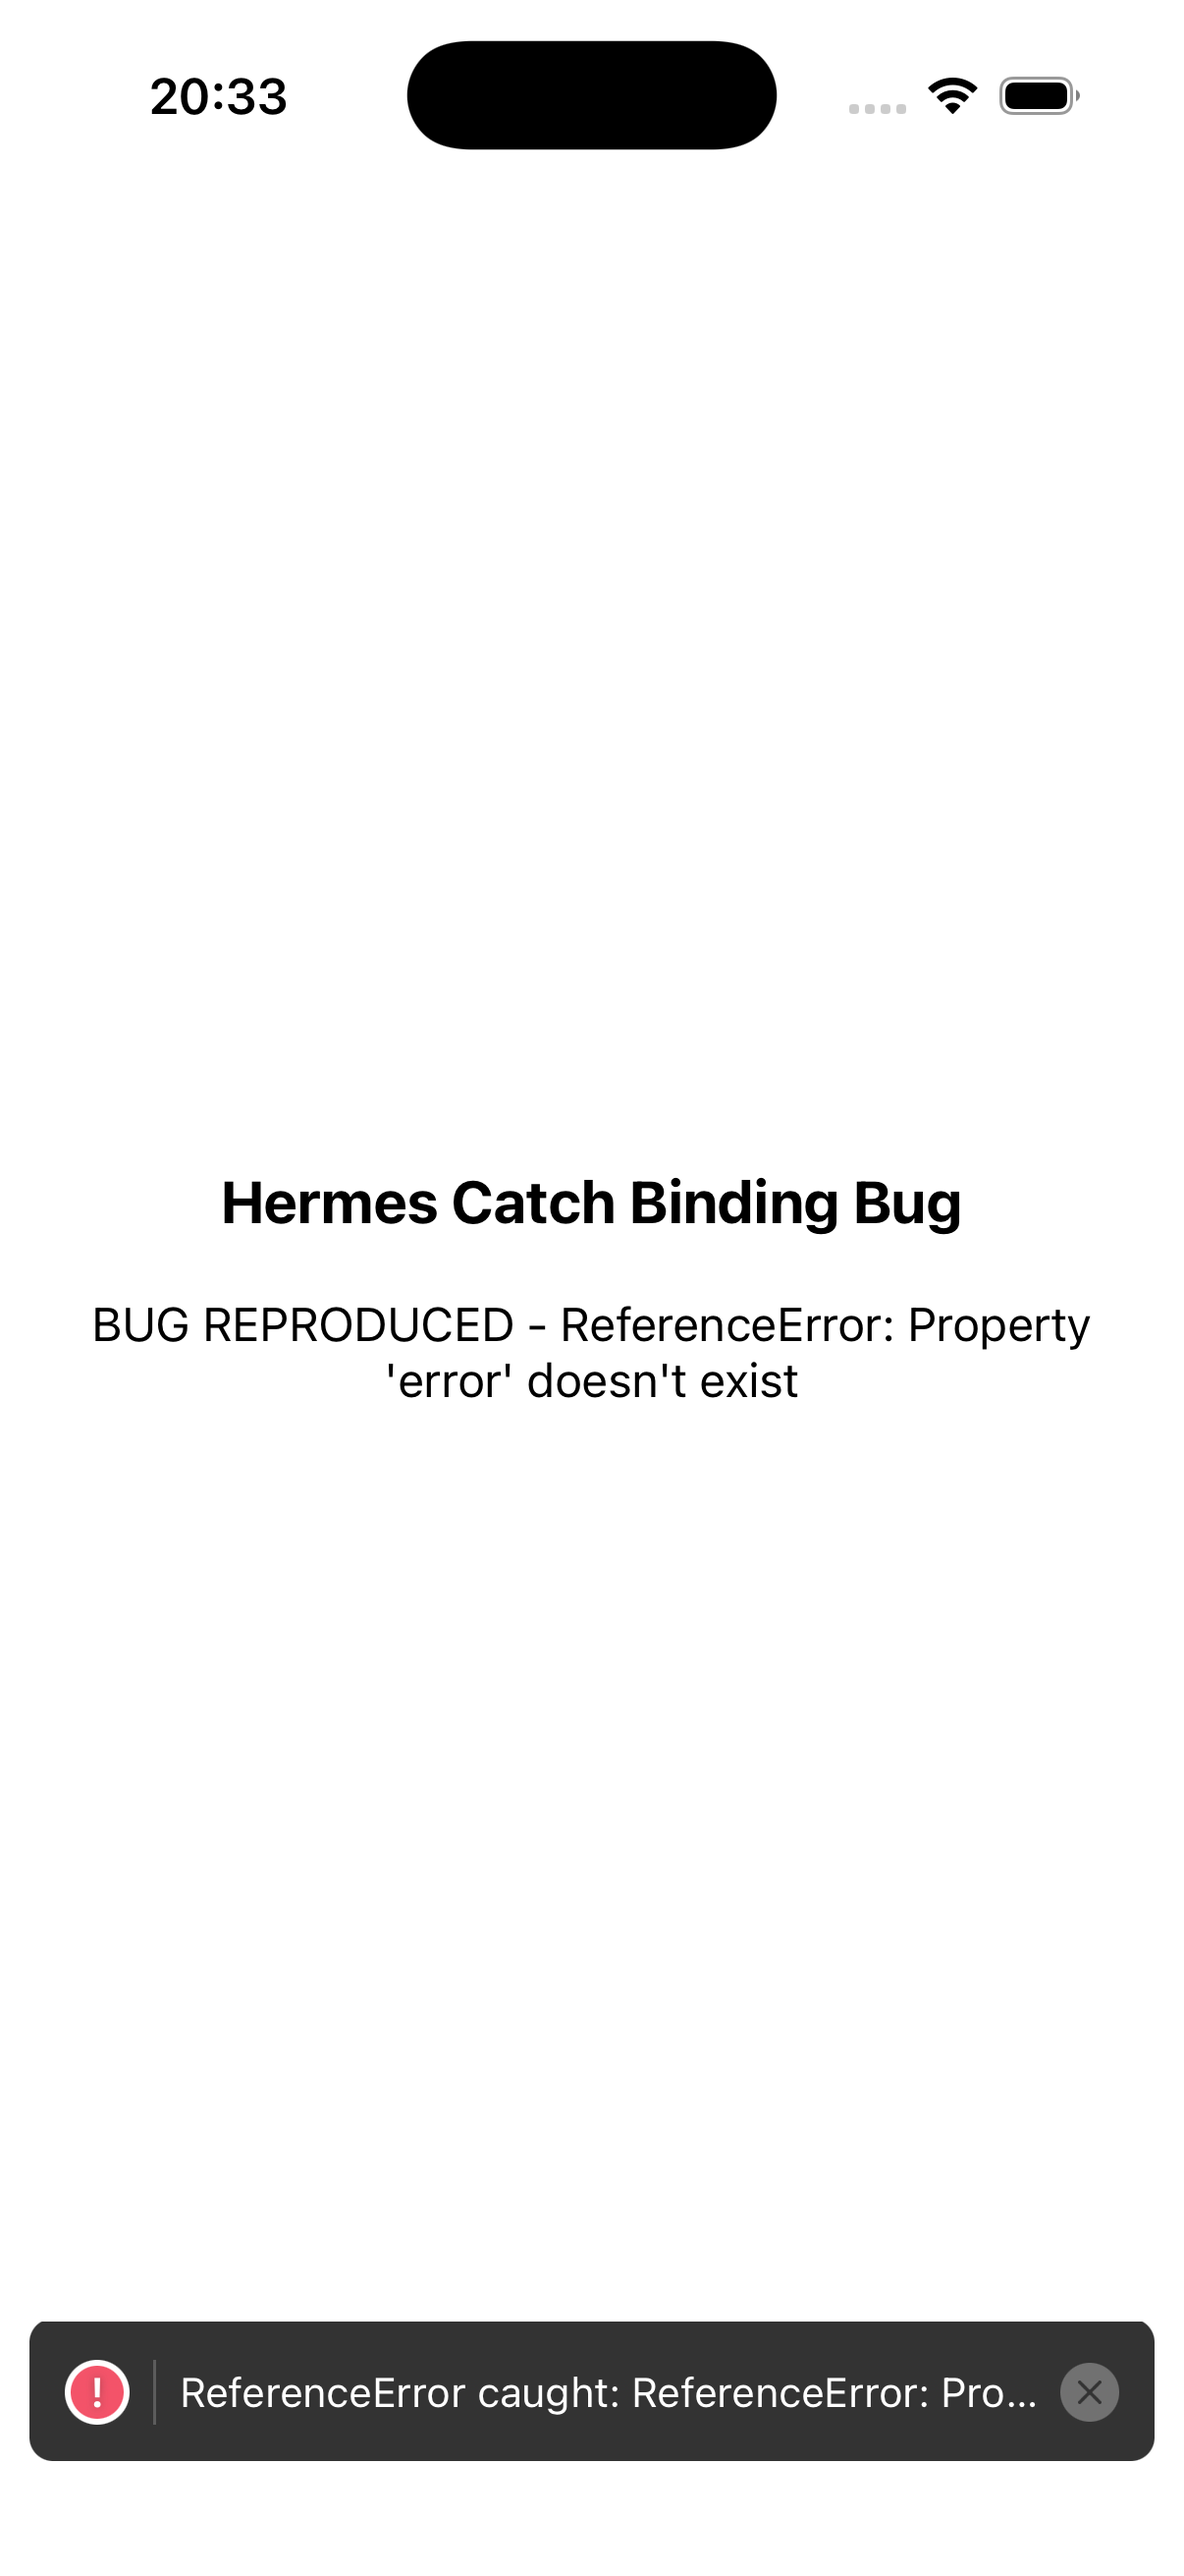
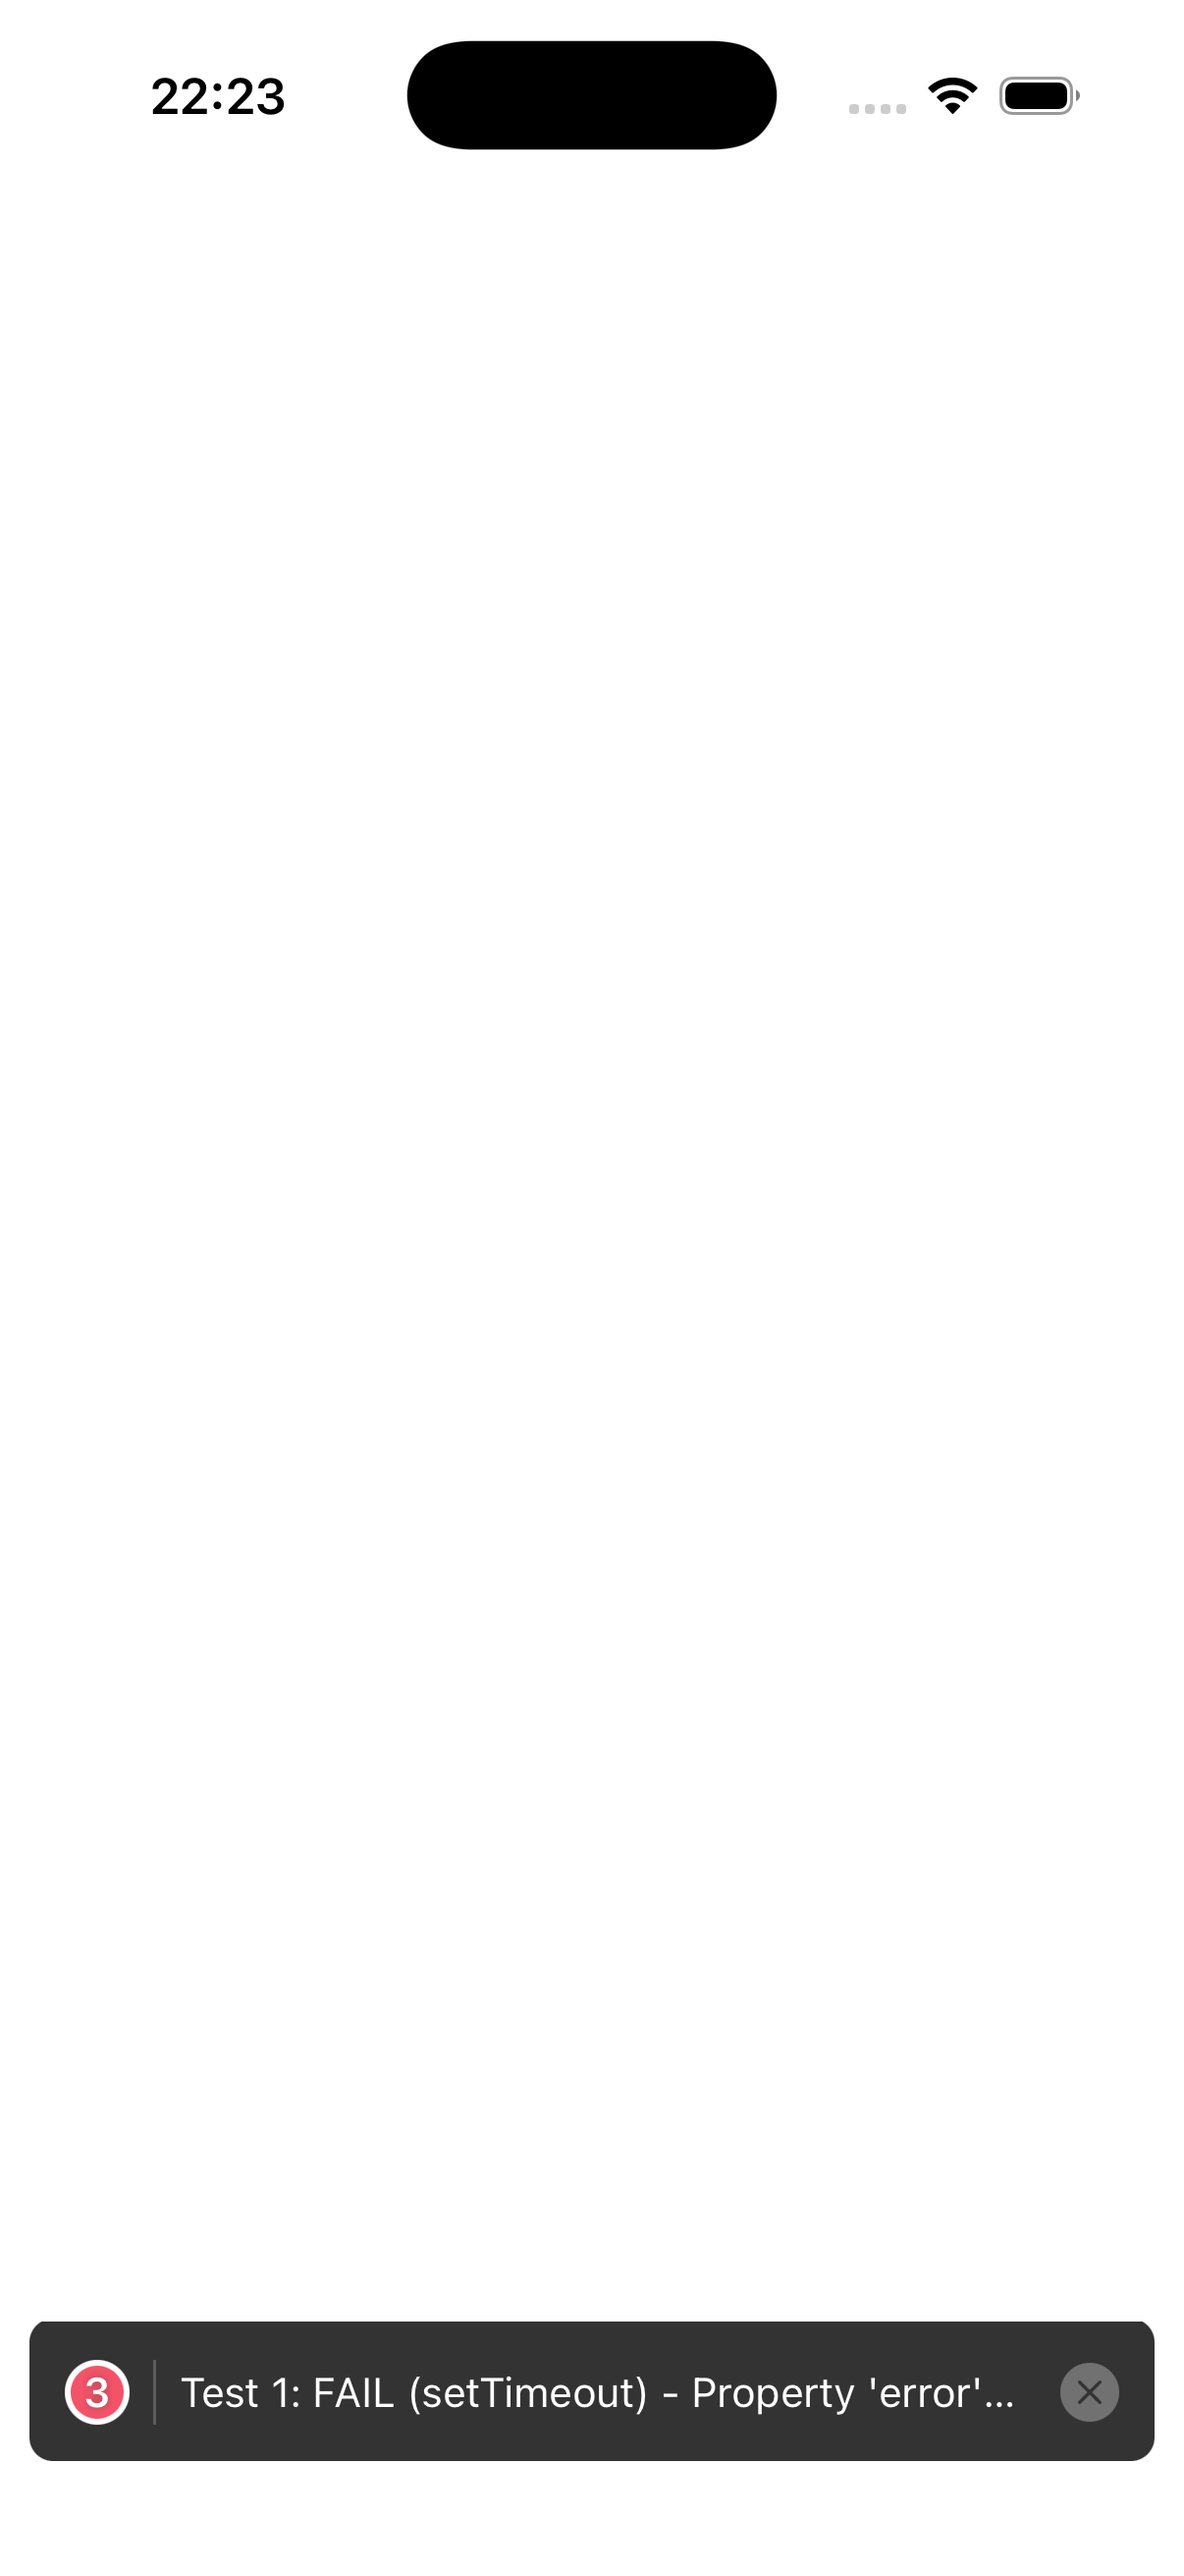
docs: add finding that all deferral methods fail, not just setTimeout
Tested setTimeout (native bridge), Promise.resolve().then() (pure JS),
and queueMicrotask (pure JS). All three fail in the RN app runtime.
Rules out native timer implementation — bug is in Hermes runtime itself.

diff --git a/README.md b/README.md
@@ -1,6 +1,6 @@
 # Hermes Catch Binding Bug
 
-`ReferenceError: Property 'error' doesn't exist` when accessing a catch binding inside `setTimeout` in React Native with Hermes.
+`ReferenceError: Property 'error' doesn't exist` when accessing a catch binding inside a deferred closure in React Native with Hermes.
 
 Related: [facebook/hermes#864](https://github.com/facebook/hermes/issues/864), [facebook/hermes#1969](https://github.com/facebook/hermes/issues/1969)
 
@@ -17,23 +17,50 @@ try {
 }
 ```
 
+## Findings
+
+**All deferral methods fail** — not just `setTimeout` (native bridge), but also `Promise.resolve().then()` and `queueMicrotask()` (pure JS, no native bridge). This rules out the native timer implementation as the cause. The bug is in the Hermes runtime itself when embedded in the RN app.
+
+| Deferral method | Native bridge? | Result in RN app |
+|---|---|---|
+| `setTimeout` | Yes | FAIL |
+| `Promise.resolve().then()` | No | FAIL |
+| `queueMicrotask()` | No | FAIL |
+
+All three work correctly on standalone Hermes CLI (`hermes repro.js`).
+
+![All three deferral methods fail in RN app](screenshot.png)
+
 ## Reproduction
 
-`repro.js` is a complete React Native 0.79.7 Metro dev bundle generated from the catch binding pattern above. No hand-written simulation — this is the actual output of `npx react-native bundle --dev true`.
+`repro.js` — minimal Metro require polyfill (71 lines) replicating the RN execution path. Runs on standalone Hermes CLI but does **not** reproduce the bug there.
+
+To reproduce in an RN app:
 
 ```bash
-hermes repro.js
-# → "BUG NOT REPRODUCED" (catch binding accessible)
+npx @react-native-community/cli init HermesCatchRepro --version 0.79.7
 ```
 
-Same bundle loaded inside a React Native 0.79.7 app on iOS:
-→ `ReferenceError: Property 'error' doesn't exist`
+Replace `index.js`:
 
-![Bug reproduced on iOS simulator](screenshot.png)
+```javascript
+import {AppRegistry} from 'react-native';
 
-## What Babel does
+try {
+  throw new Error('catch-binding-bug');
+} catch (error) {
+  console.log('inside catch:', error.message);
+  setTimeout(function () {
+    try {
+      console.log('deferred:', error.message);
+    } catch (e) {
+      console.error('BUG REPRODUCED:', e.message);
+    }
+  }, 100);
+}
 
-`@react-native/babel-preset` with `hermes-stable` profile does **not** transform catch bindings. The bundled code is identical to the source.
+AppRegistry.registerComponent('HermesCatchRepro', () => () => null);
+```
 
 ## Workaround
 
@@ -53,6 +80,7 @@ try {
 
 ## Environment
 
-- React Native 0.79.7 (also affects 0.78.x)
+- React Native 0.78.x, 0.79.7 (also likely all versions through 0.85.0)
 - Hermes (default engine)
 - iOS simulator, Xcode 26.4
+- Standalone Hermes CLI does NOT reproduce
